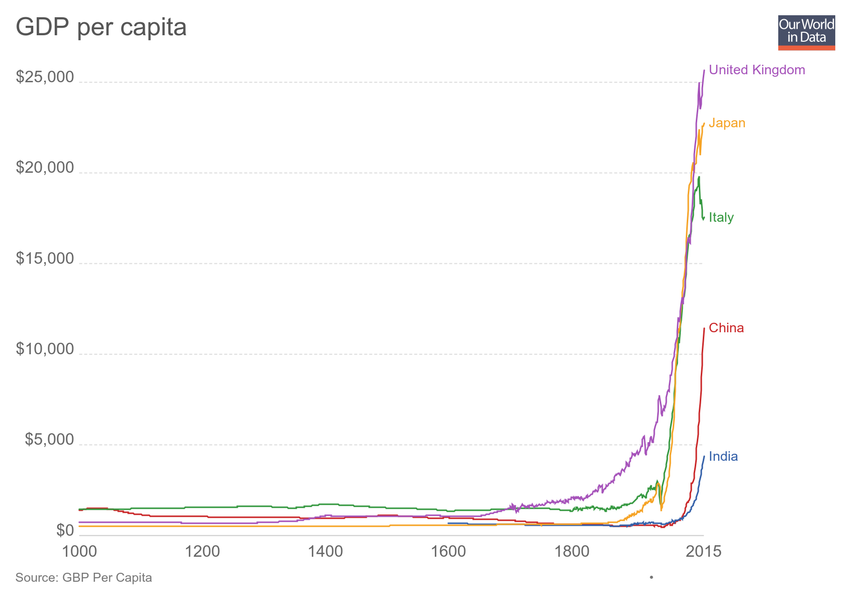
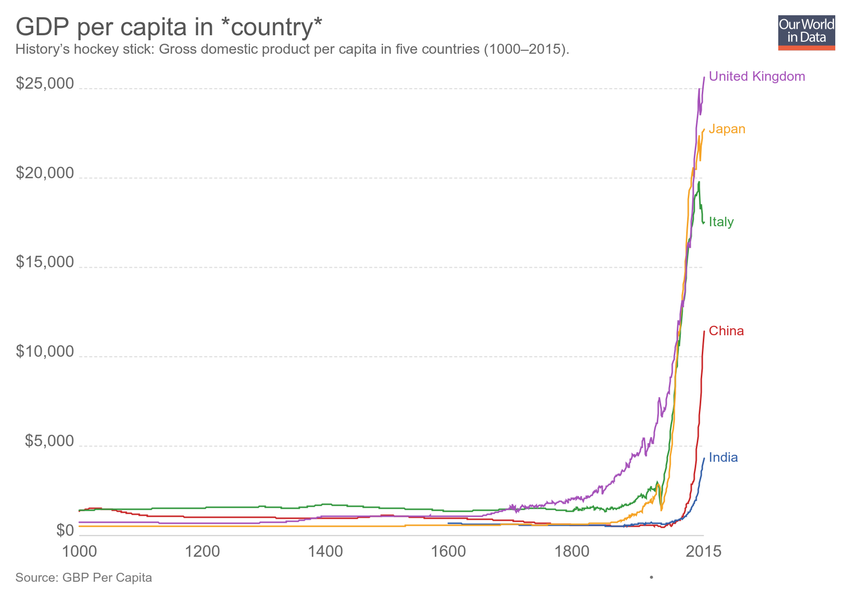
Updating chart gdp-per-capita

diff --git a/grapher/gdp-per-capita.html b/grapher/gdp-per-capita.html
@@ -1,4 +1,4 @@
-<!doctype html><html><head><meta name="viewport" content="width=device-width, initial-scale=1" /><title>GDP per capita - Our World in Data</title><meta name="description" content="An interactive visualization from Our World in Data." /><link rel="canonical" href="https://mispytest-grapher.netlify.com/grapher/gdp-per-capita" /><meta property="fb:app_id" content="1149943818390250" /><meta property="og:url" content="https://mispytest-grapher.netlify.com/grapher/gdp-per-capita" /><meta property="og:title" content="GDP per capita" /><meta property="og:description" content="An interactive visualization from Our World in Data." /><meta property="og:image" content="https://mispytest-grapher.netlify.com/grapher/exports/gdp-per-capita.png?v=3" /><meta property="og:image:width" content="850" /><meta property="og:image:height" content="600" /><meta property="og:site_name" content="Our World in Data" /><meta name="twitter:card" content="summary_large_image" /><meta name="twitter:site" content="@OurWorldInData" /><meta name="twitter:creator" content="@OurWorldInData" /><meta name="twitter:title" content="GDP per capita" /><meta name="twitter:description" content="An interactive visualization from Our World in Data." /><meta name="twitter:image" content="https://mispytest-grapher.netlify.com/grapher/exports/gdp-per-capita.png?v=3" /><style>
+<!doctype html><html><head><meta name="viewport" content="width=device-width, initial-scale=1" /><title>GDP per capita in *country* - Our World in Data</title><meta name="description" content="History’s hockey stick: Gross domestic product per capita in five countries (1000–2015)." /><link rel="canonical" href="https://mispytest-grapher.netlify.com/grapher/gdp-per-capita" /><meta property="fb:app_id" content="1149943818390250" /><meta property="og:url" content="https://mispytest-grapher.netlify.com/grapher/gdp-per-capita" /><meta property="og:title" content="GDP per capita in *country*" /><meta property="og:description" content="History’s hockey stick: Gross domestic product per capita in five countries (1000–2015)." /><meta property="og:image" content="https://mispytest-grapher.netlify.com/grapher/exports/gdp-per-capita.png?v=4" /><meta property="og:image:width" content="850" /><meta property="og:image:height" content="600" /><meta property="og:site_name" content="Our World in Data" /><meta name="twitter:card" content="summary_large_image" /><meta name="twitter:site" content="@OurWorldInData" /><meta name="twitter:creator" content="@OurWorldInData" /><meta name="twitter:title" content="GDP per capita in *country*" /><meta name="twitter:description" content="History’s hockey stick: Gross domestic product per capita in five countries (1000–2015)." /><meta name="twitter:image" content="https://mispytest-grapher.netlify.com/grapher/exports/gdp-per-capita.png?v=4" /><style>
         html, body {
             height: 100%;
             margin: 0;
@@ -20,8 +20,8 @@
         }
     </style><noscript><style>
                     figure { display: none !important; }
-                </style></noscript><link rel="stylesheet" href="https://mispytest-grapher.netlify.com/grapher/assets/commons.bundle.a56b9fbdc1e1e6e015d0.css" /><link rel="preload" href="/grapher/data/variables/85981.json?v=3" as="fetch" crossorigin /></head><body class="singleChart"><figure data-grapher-src="/grapher/gdp-per-capita"></figure><noscript id="fallback"><img src="/grapher/exports/gdp-per-capita.svg" /><p>Interactive visualization requires JavaScript</p></noscript><script src="https://cdn.polyfill.io/v2/polyfill.min.js?features=es6,fetch"></script><script src="https://mispytest-grapher.netlify.com/grapher/assets/commons.bundle.a56b9fbdc1e1e6e015d0.js"></script><script src="https://mispytest-grapher.netlify.com/grapher/assets/charts.bundle.a56b9fbdc1e1e6e015d0.js"></script><script>
-        var jsonConfig = {"id":2369,"map":{"projection":"World","colorSchemeLabels":[],"colorSchemeValues":[],"customNumericColors":[],"customCategoryColors":{},"customCategoryLabels":{},"customHiddenCategories":{}},"tab":"chart","slug":"gdp-per-capita","type":"LineChart","title":"GDP per capita","xAxis":{"scaleType":"linear"},"yAxis":{"min":0,"scaleType":"linear"},"overlay":"sources","version":3,"hasMapTab":false,"stackMode":"absolute","dimensions":[{"display":{},"property":"y","variableId":85981}],"hasChartTab":true,"isAutoTitle":true,"isPublished":true,"selectedData":[{"index":0,"entityId":171},{"index":0,"entityId":137},{"index":0,"entityId":8},{"index":0,"entityId":14},{"index":0,"entityId":1}],"addCountryMode":"add-country"};
+                </style></noscript><link rel="stylesheet" href="https://mispytest-grapher.netlify.com/grapher/assets/commons.bundle.a56b9fbdc1e1e6e015d0.css" /><link rel="preload" href="/grapher/data/variables/85981.json?v=4" as="fetch" crossorigin /></head><body class="singleChart"><figure data-grapher-src="/grapher/gdp-per-capita"></figure><noscript id="fallback"><img src="/grapher/exports/gdp-per-capita.svg" /><p>Interactive visualization requires JavaScript</p></noscript><script src="https://cdn.polyfill.io/v2/polyfill.min.js?features=es6,fetch"></script><script src="https://mispytest-grapher.netlify.com/grapher/assets/commons.bundle.a56b9fbdc1e1e6e015d0.js"></script><script src="https://mispytest-grapher.netlify.com/grapher/assets/charts.bundle.a56b9fbdc1e1e6e015d0.js"></script><script>
+        var jsonConfig = {"id":2369,"map":{"projection":"World","colorSchemeLabels":[],"colorSchemeValues":[],"customNumericColors":[],"customCategoryColors":{},"customCategoryLabels":{},"customHiddenCategories":{}},"tab":"chart","slug":"gdp-per-capita","type":"LineChart","title":"GDP per capita in *country*","xAxis":{"scaleType":"linear"},"yAxis":{"min":0,"scaleType":"linear"},"version":4,"subtitle":"History’s hockey stick: Gross domestic product per capita in five countries (1000–2015).","hasMapTab":false,"stackMode":"absolute","dimensions":[{"display":{},"property":"y","variableId":85981}],"hasChartTab":true,"isPublished":true,"selectedData":[{"index":0,"entityId":171},{"index":0,"entityId":137},{"index":0,"entityId":8},{"index":0,"entityId":14},{"index":0,"entityId":1}],"addCountryMode":"add-country"};
         var figure = document.getElementsByTagName("figure")[0];
         try {
             window.App = {};
